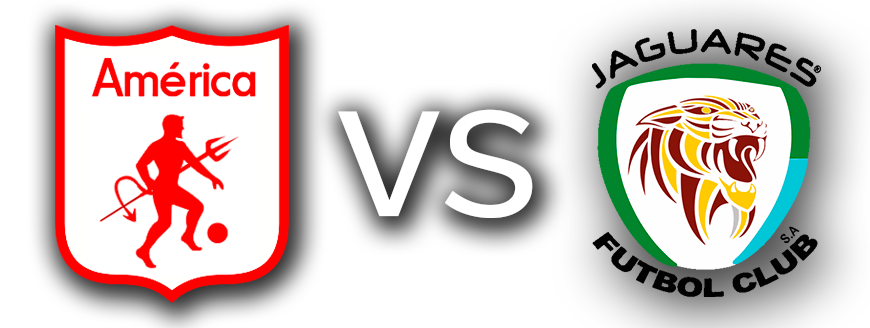
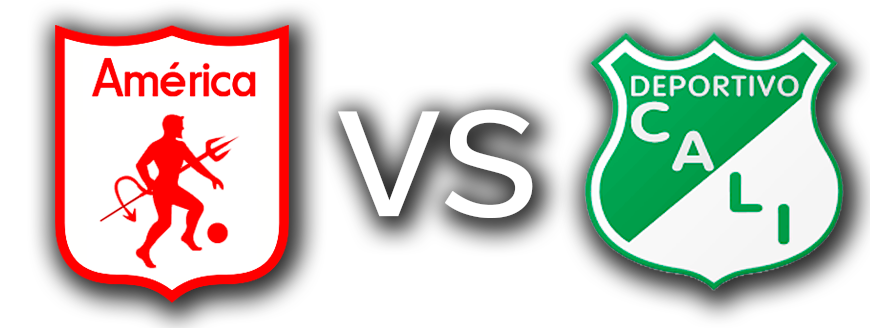
as

Changed region(s): [[0.6517, 0.061, 1.0, 1.0]]

diff --git a/js/script.js b/js/script.js
@@ -75,18 +75,18 @@
     });
     const [date, time] = now.split(", ");
 
-    const startHour = "1:00";
-    const endHour = "3:00";
+    const startHour = "3:00";
+    const endHour = "9:00";
 
     if (time >= startHour && time <= endHour) {
       document.getElementById("live").innerHTML = "EN VIVO";
       const vsImage = document.getElementById("vs");
-      vsImage.style.display = "none";
+      vsImage.style.display = "block";
     } else {
       document.getElementById("live").innerHTML =
-        "LUNES A VIERNES <br> 1:00 PM - 3:00 PM";
+        "EN VIVO";
       const vsImage = document.getElementById("vs");
-      vsImage.style.display = "none";
+      vsImage.style.display = "block";
     }
   }
 

diff --git a/index.html b/index.html
@@ -138,7 +138,7 @@
                     <div class="inner-hero">
                       <div class="text-center">
                         <h1>
-                          <img id="vs" class="col-md-6 align-items-center" src="img/vs2.png" alt="escudo" />
+                          <img id="vs" class="col-md-6 align-items-center" src="img/vs1.png" alt="escudo" />
                           <span id="live"
                           > EN VIVO
                           
